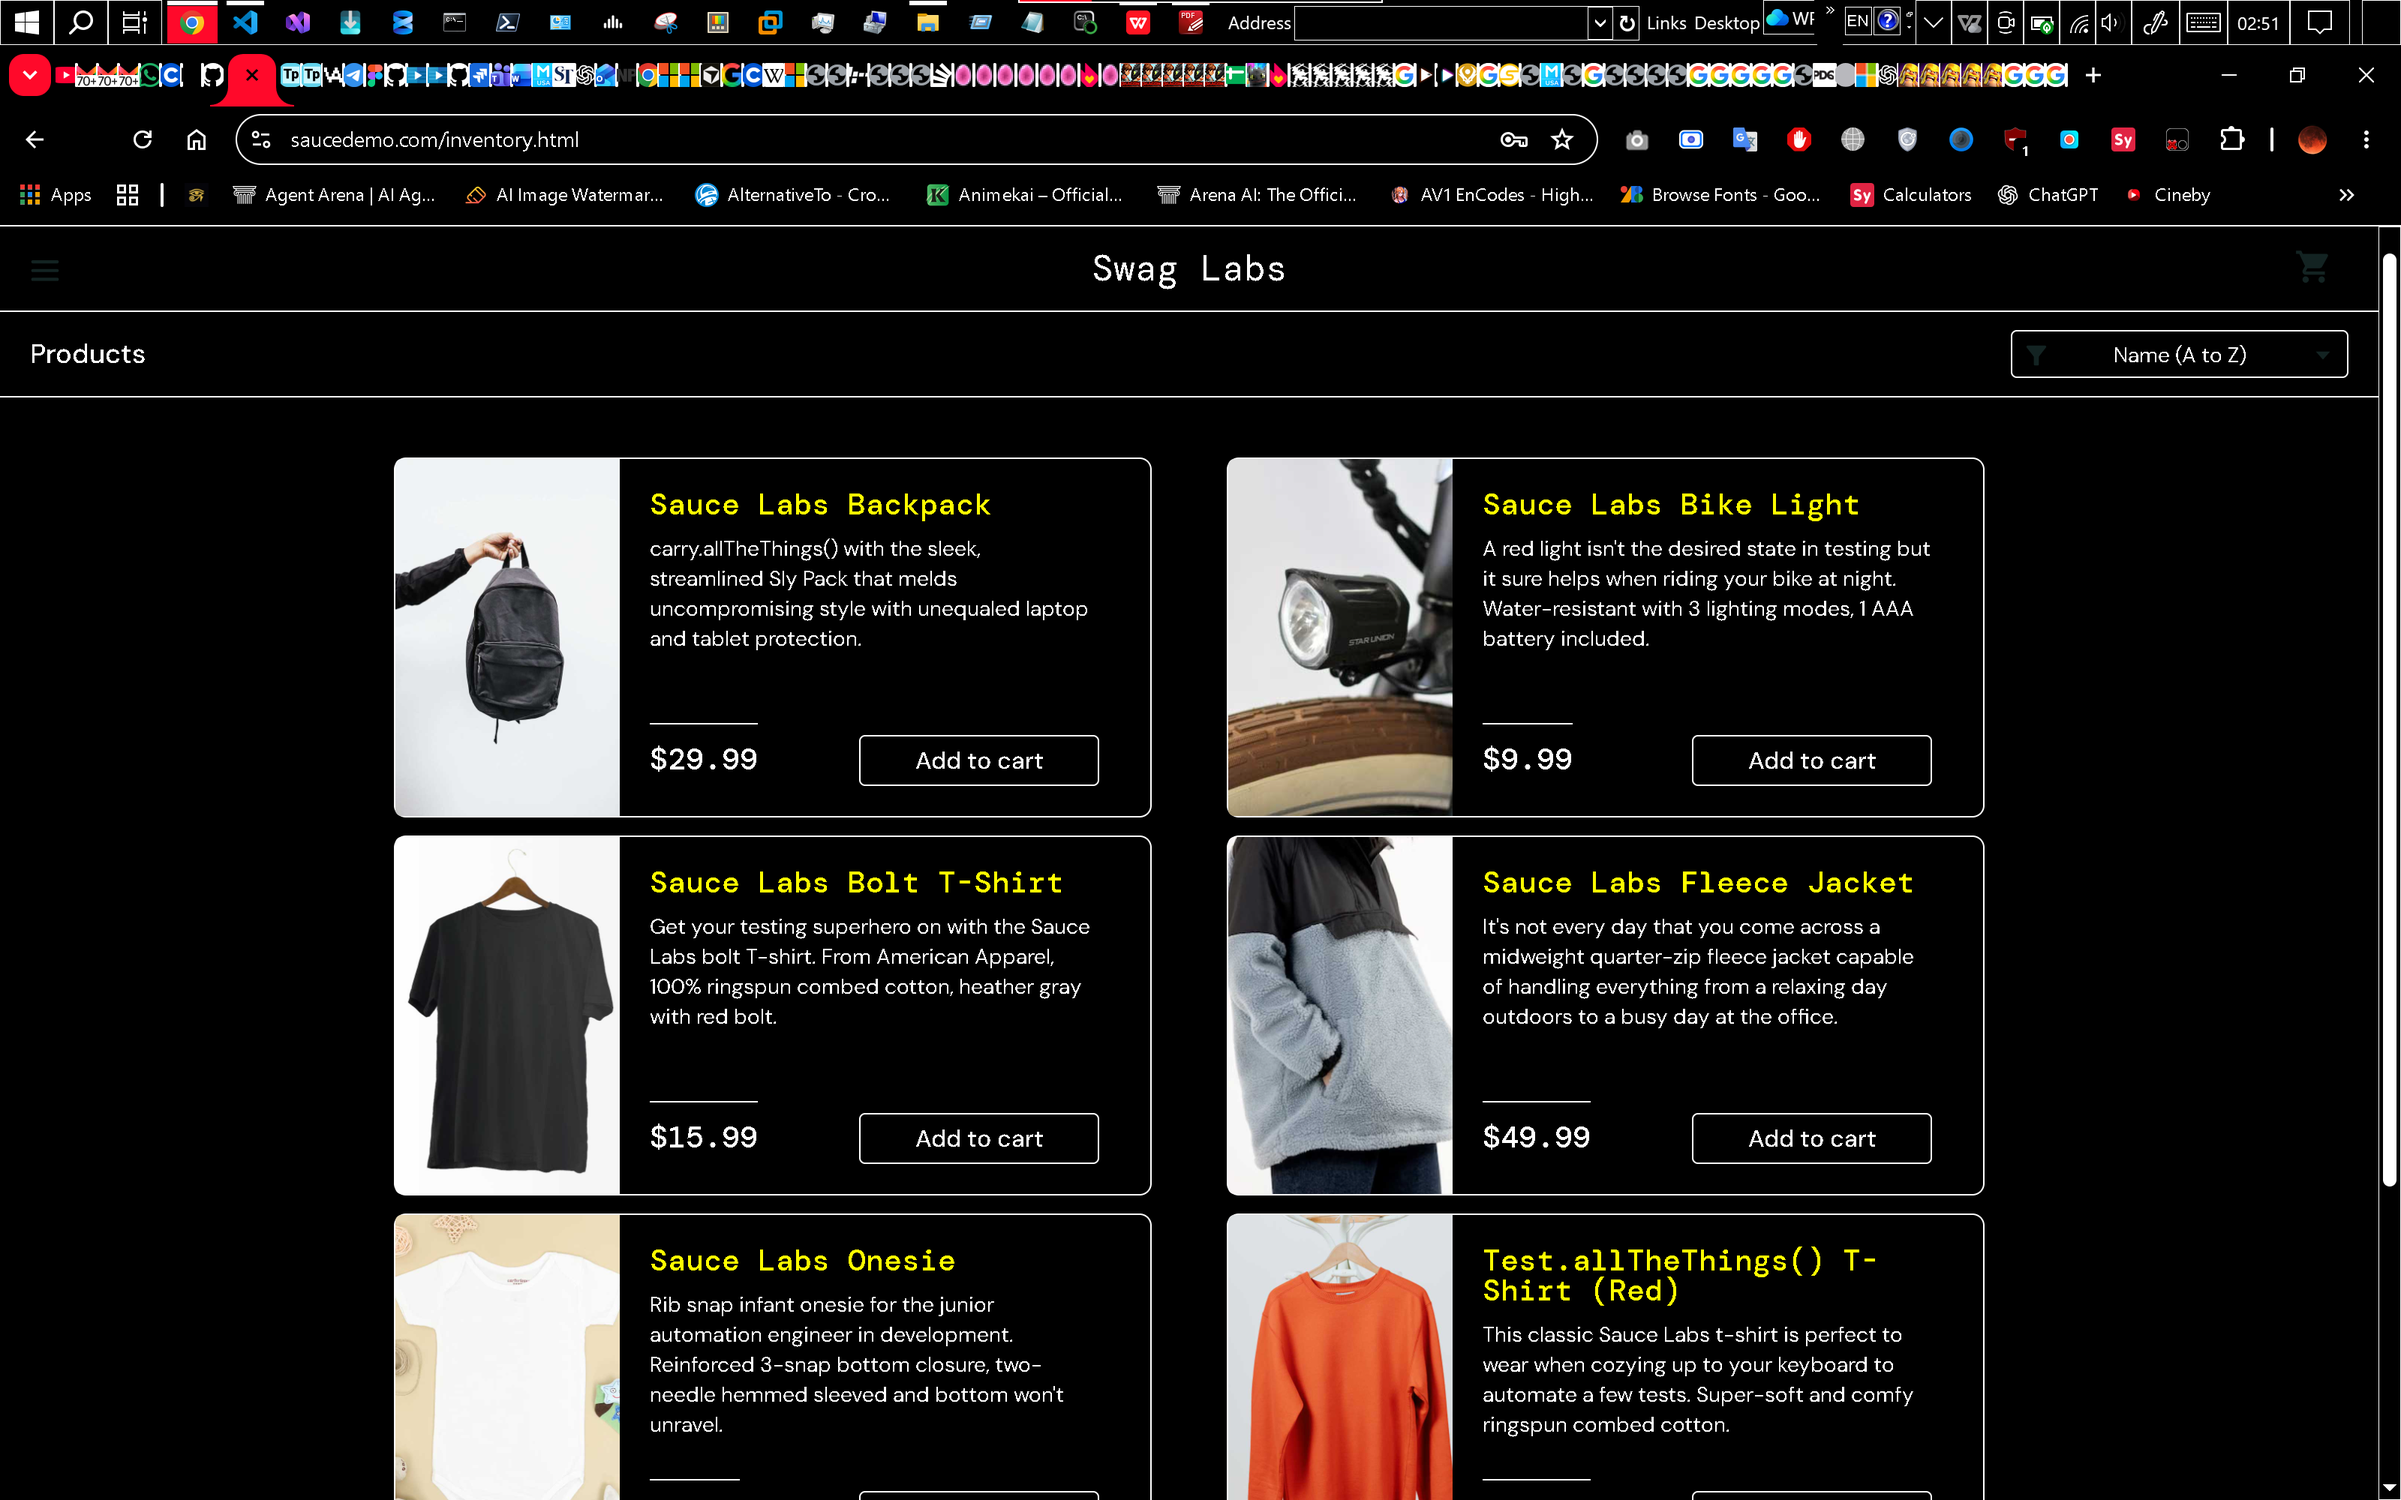
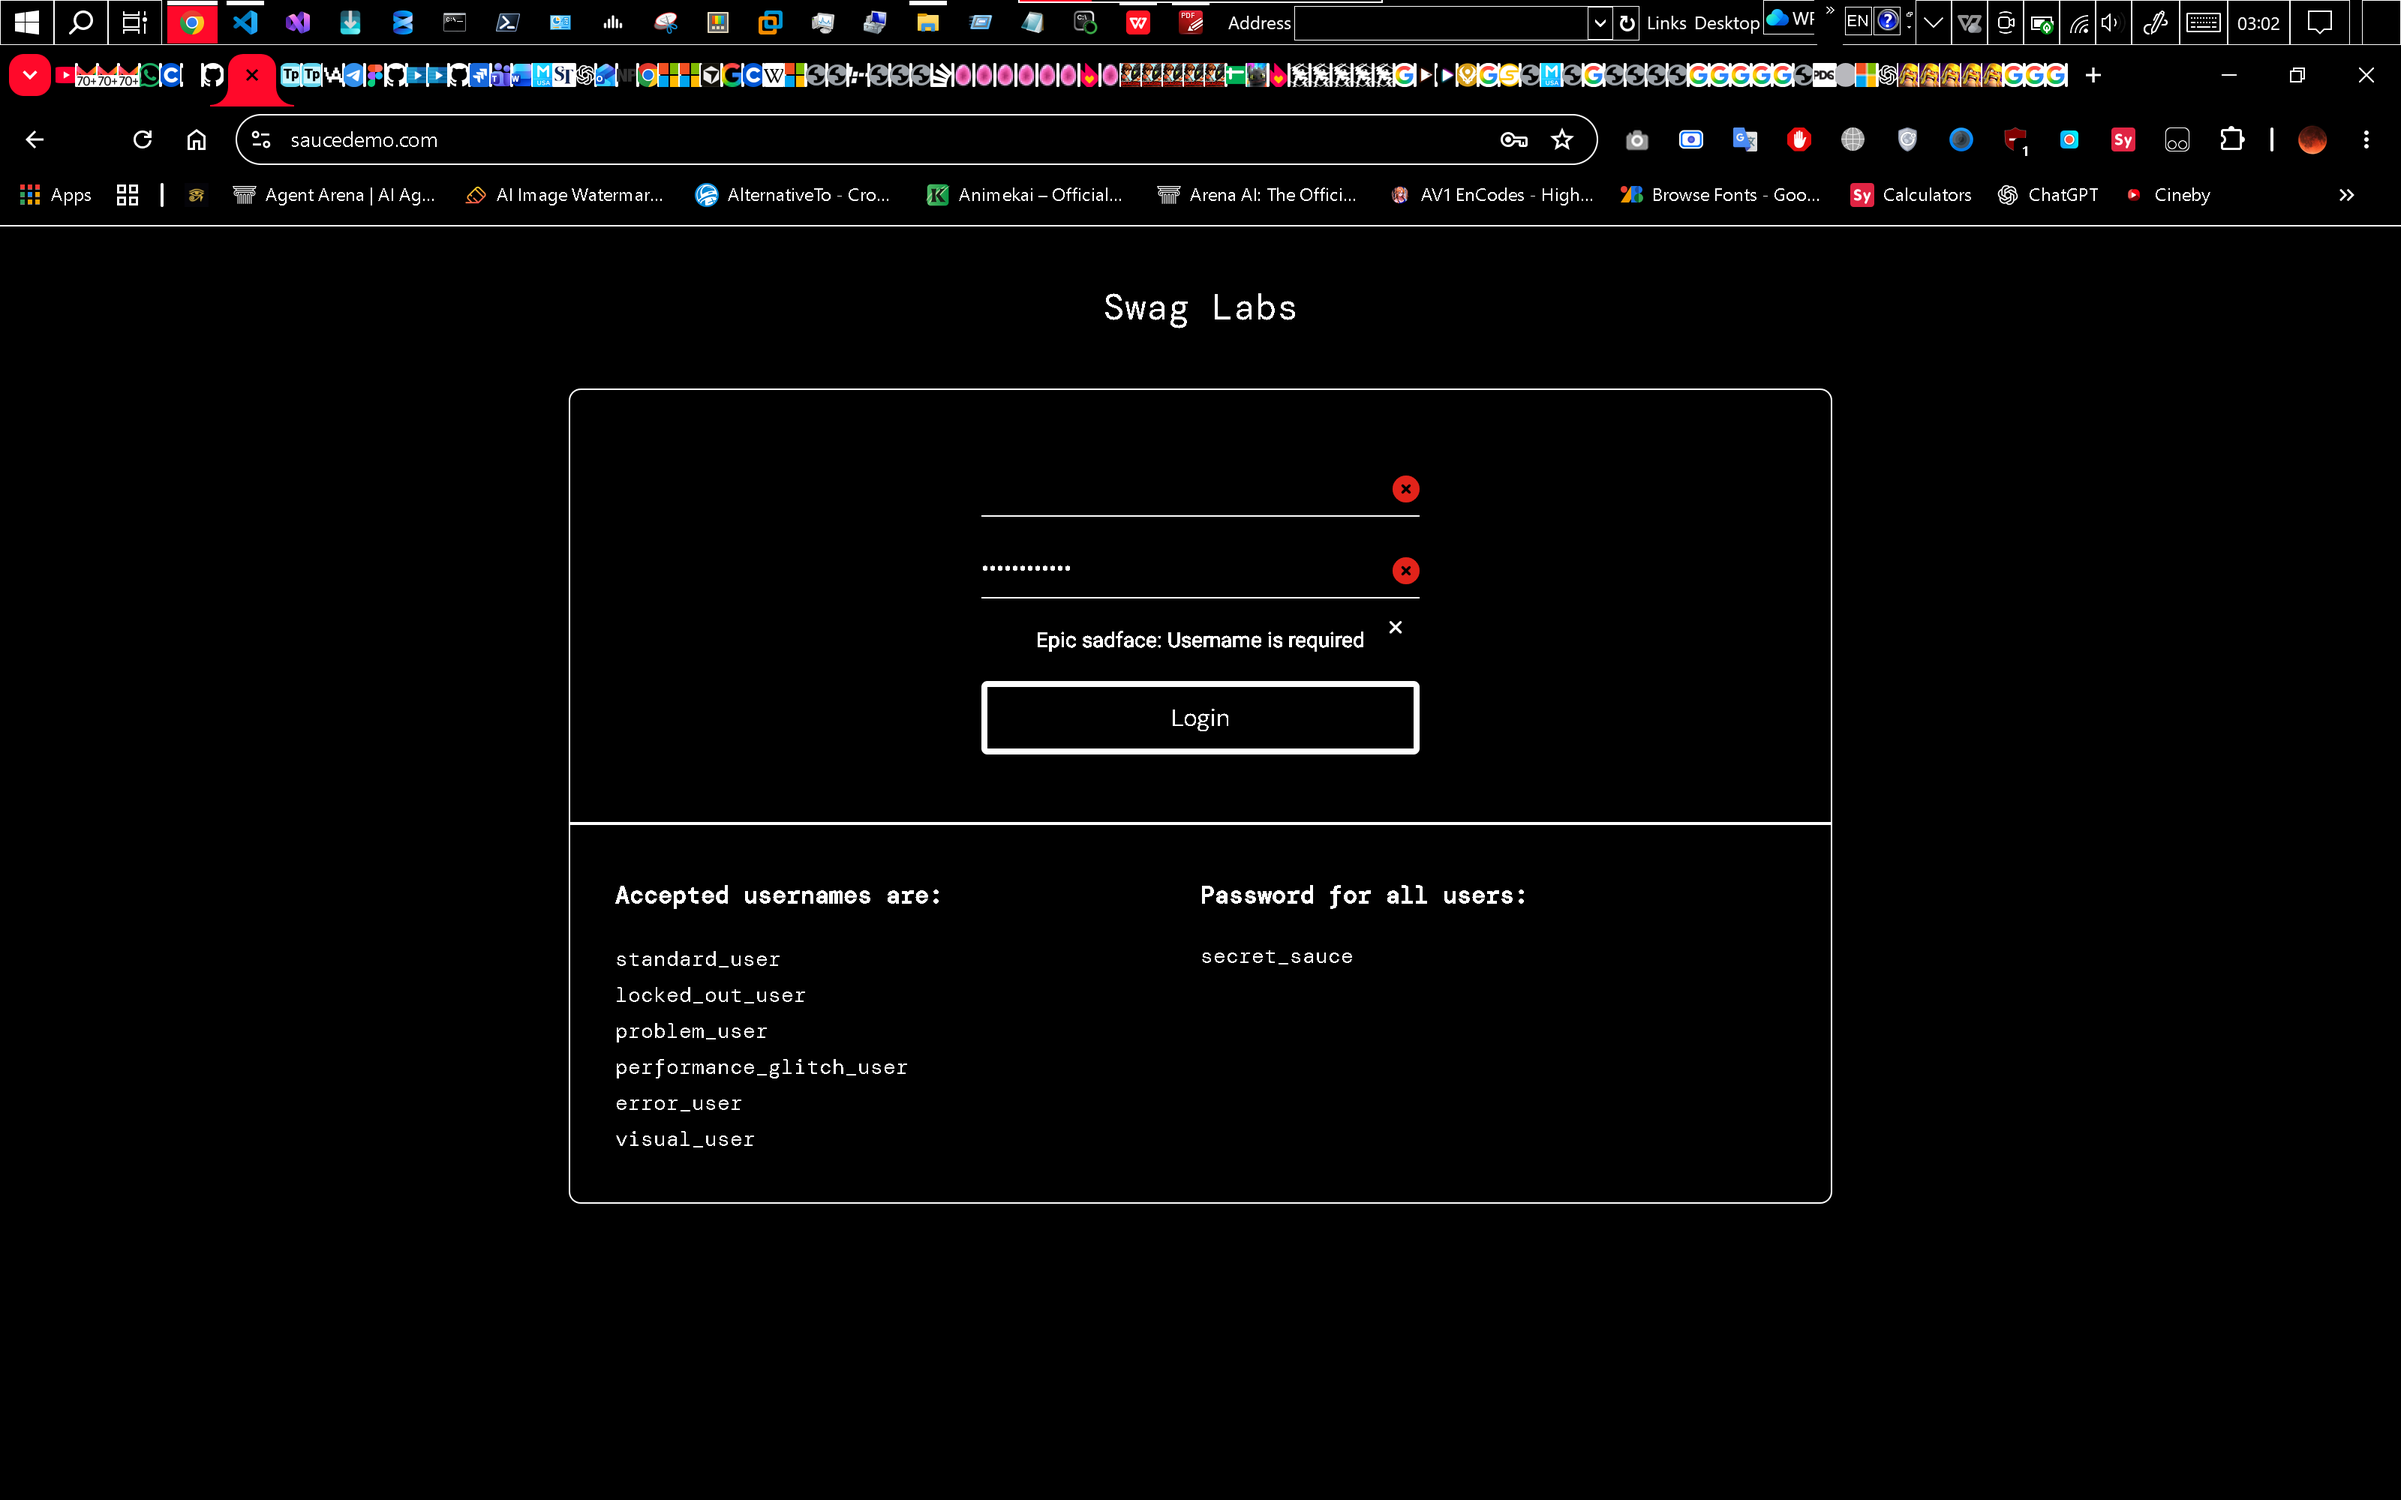
added test n03

diff --git a/manual-testing/results/member-d.md b/manual-testing/results/member-d.md
@@ -17,7 +17,7 @@
 
 ## 3-Point Boundary Tests
 
-### Test ID: 1
+### Test ID: LOGIN-N03
 
 | Item | Details |
 |---|---|
@@ -28,7 +28,7 @@
 
 #### Purpose
 
-Checks if user can login successfully if they enter the correct details
+Checks if user can login successfully if they dont enter their username
 
 #### Preconditions
 
@@ -38,22 +38,24 @@ User must have an existing account
 
 | Field | Value |
 |---|---|
-| Username | standard_user |
+| Username | Empty |
 | Password | secret_sauce |
 
 #### Steps
 
-1. Enter username
-2. Enter password
-3. Click login
+1.Follow the shared starting procedure.
+2.Leave the username empty.
+3.Enter the password.
+4.Select Login.
+5.Observe the feedback.
 
 #### Expected Result
 
-User should be able to successfully login to their account
+The attempt is rejected with validation feedback. The inventory is not reached.
 
 #### Actual Result
 
-User can login to their account
+User cannot login to their account and receives an error message
 
 #### Evidence
 
